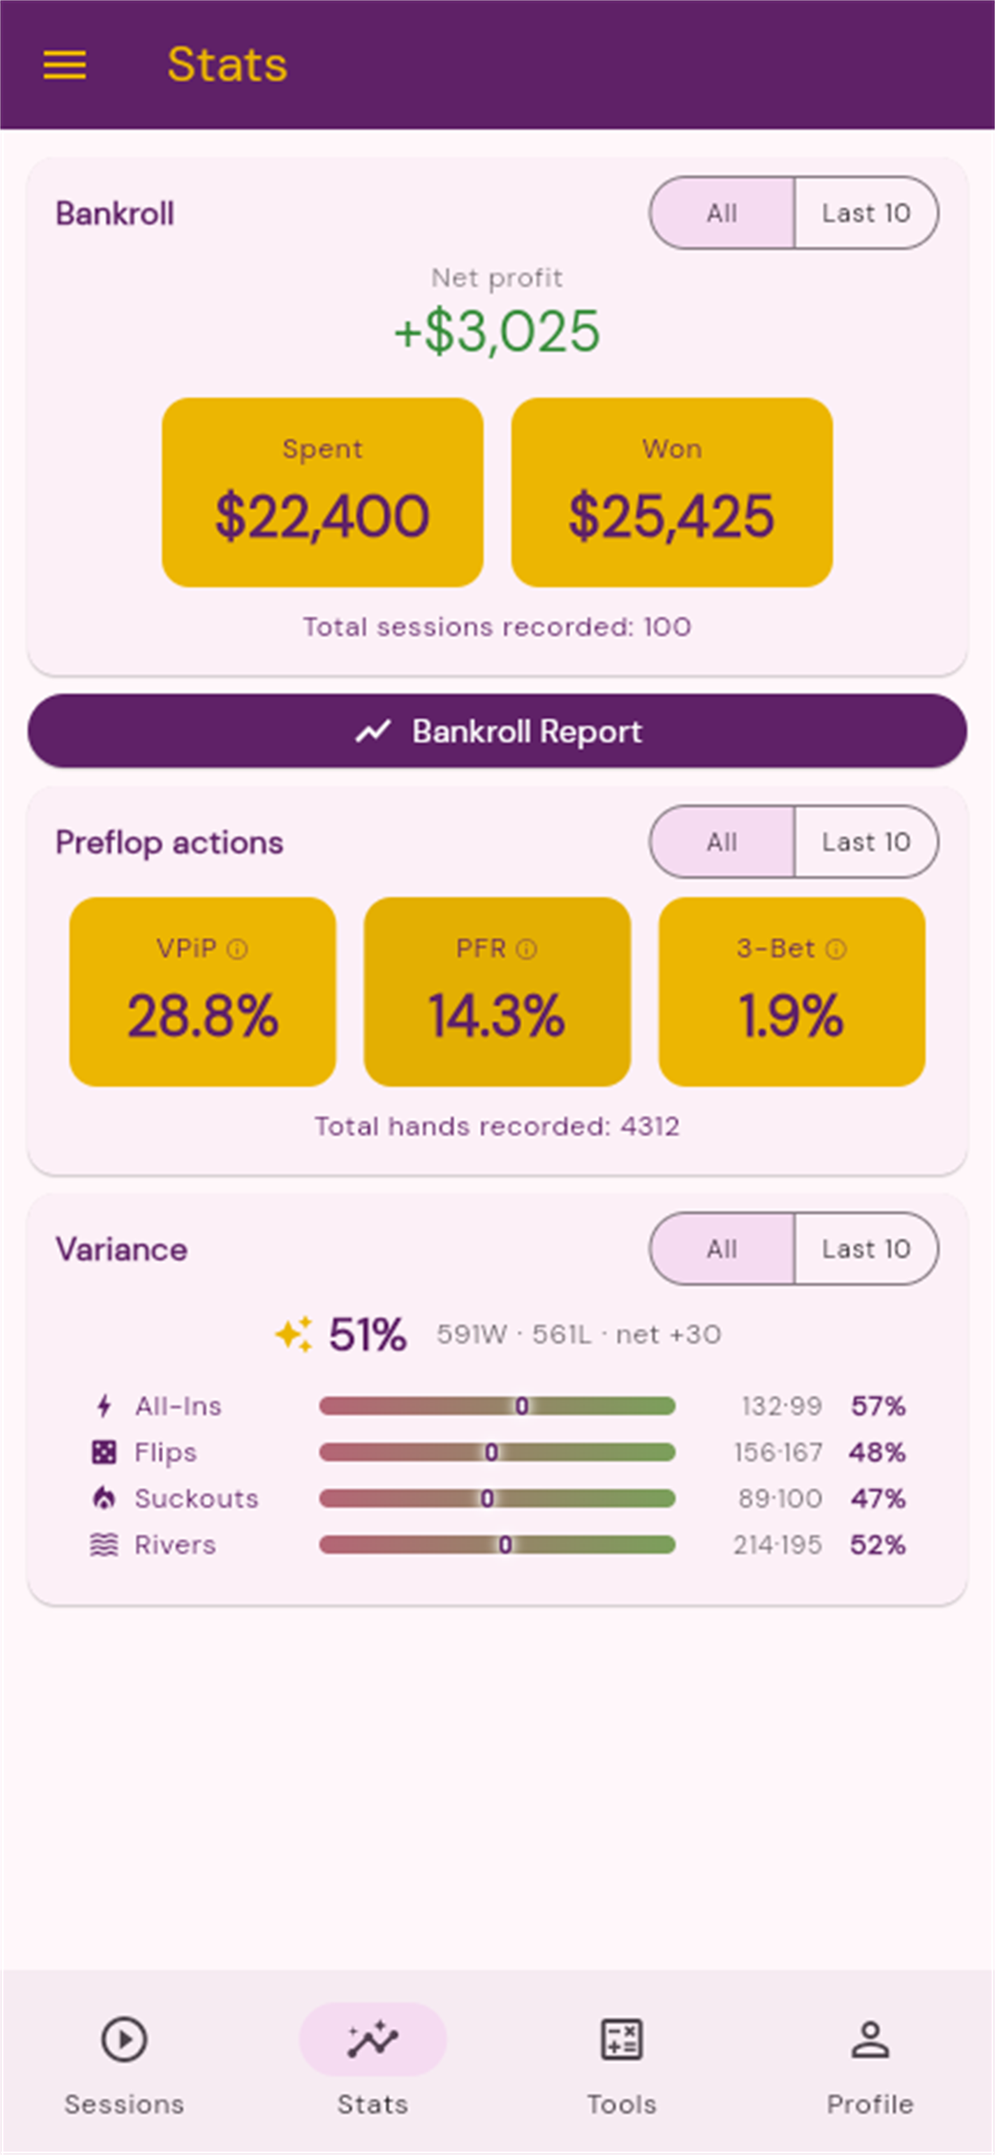
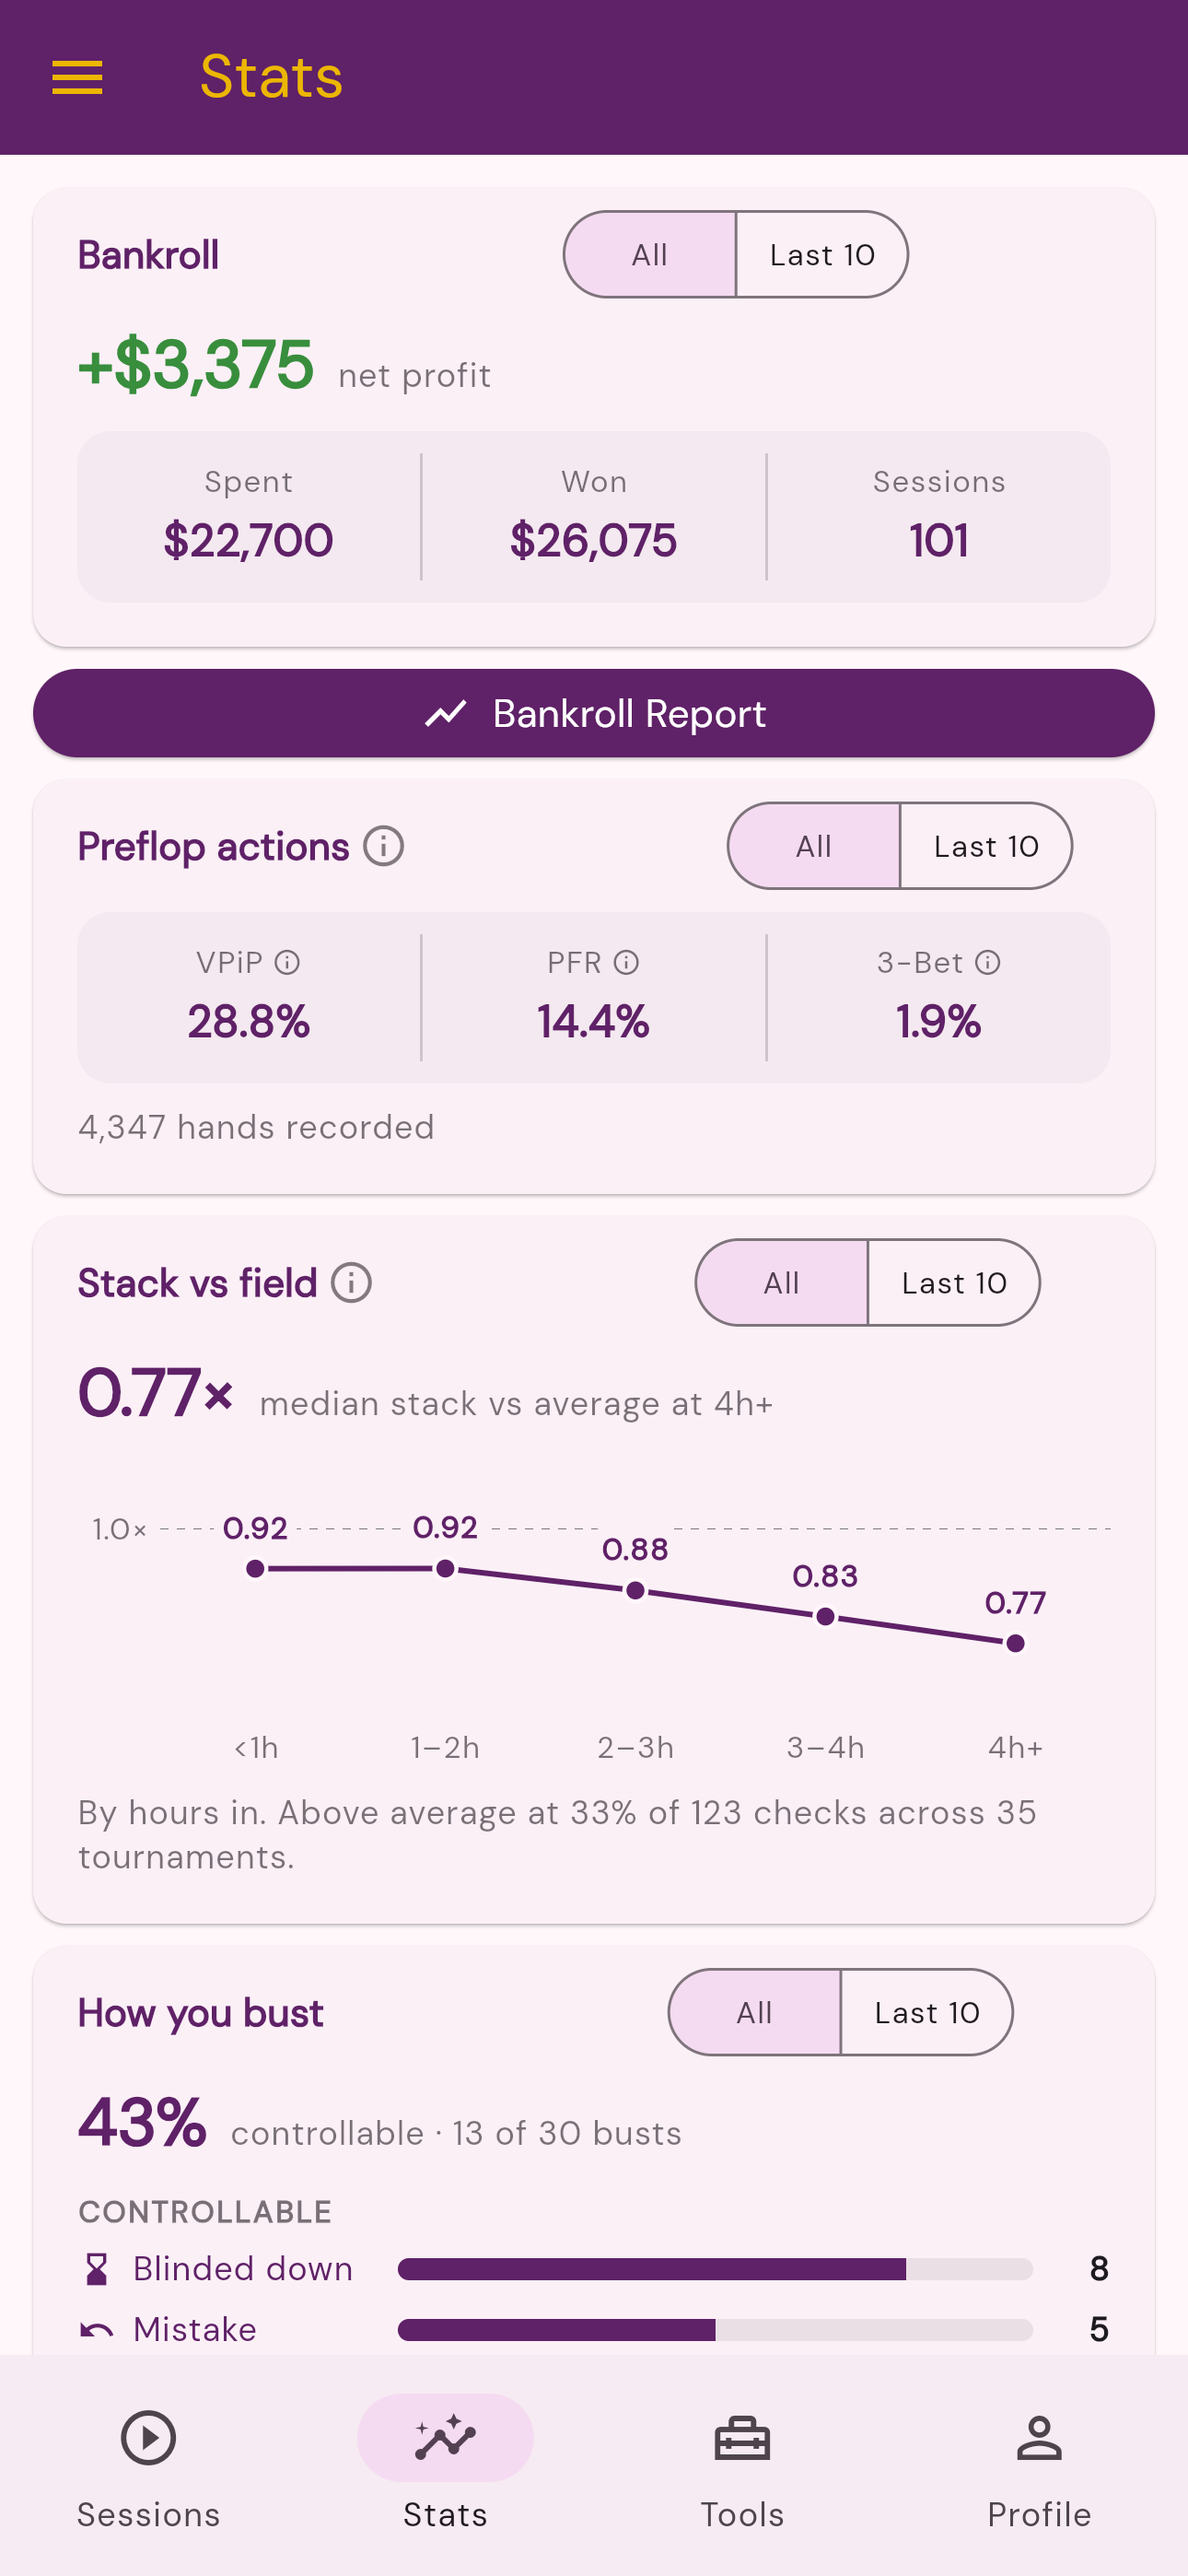
Refresh homepage screenshots for the redesigned app; replace Variance card with Stack vs Field

diff --git a/_includes/header.html b/_includes/header.html
@@ -17,7 +17,7 @@
             <div class="banner-content">
                 <h1 class="big-font1 white-text m-b-50">Your edge at the live poker table.</h1>
                 <h5 class="white-text m-b-50">Log every session, record your hands and watch your bankroll chart climb.</h5>
-                <h5 class="white-text m-b-50">Track VPiP, PFR &amp; 3-Bet live, score your variance, and crunch pot odds, ICM &amp; equity at the table.</h5>
+                <h5 class="white-text m-b-50">Track VPiP, PFR &amp; 3-Bet live, see how your stack compares to the field, and crunch pot odds, ICM &amp; equity at the table.</h5>
                 <h5 class="white-text m-b-50">Download free on Google Play and the App Store.</h5>
                 <ul class="banner-ads-btn m-0 list-inline">
                     <li class="list-inline-item"><a href="https://play.google.com/store/apps/details?id=com.pokergrinder.poker_grinder"><img src="{{site.baseurl}}/assets/images/Google-Play-Button.png" alt="Get it on Google Play" height="60" /></a></li>
